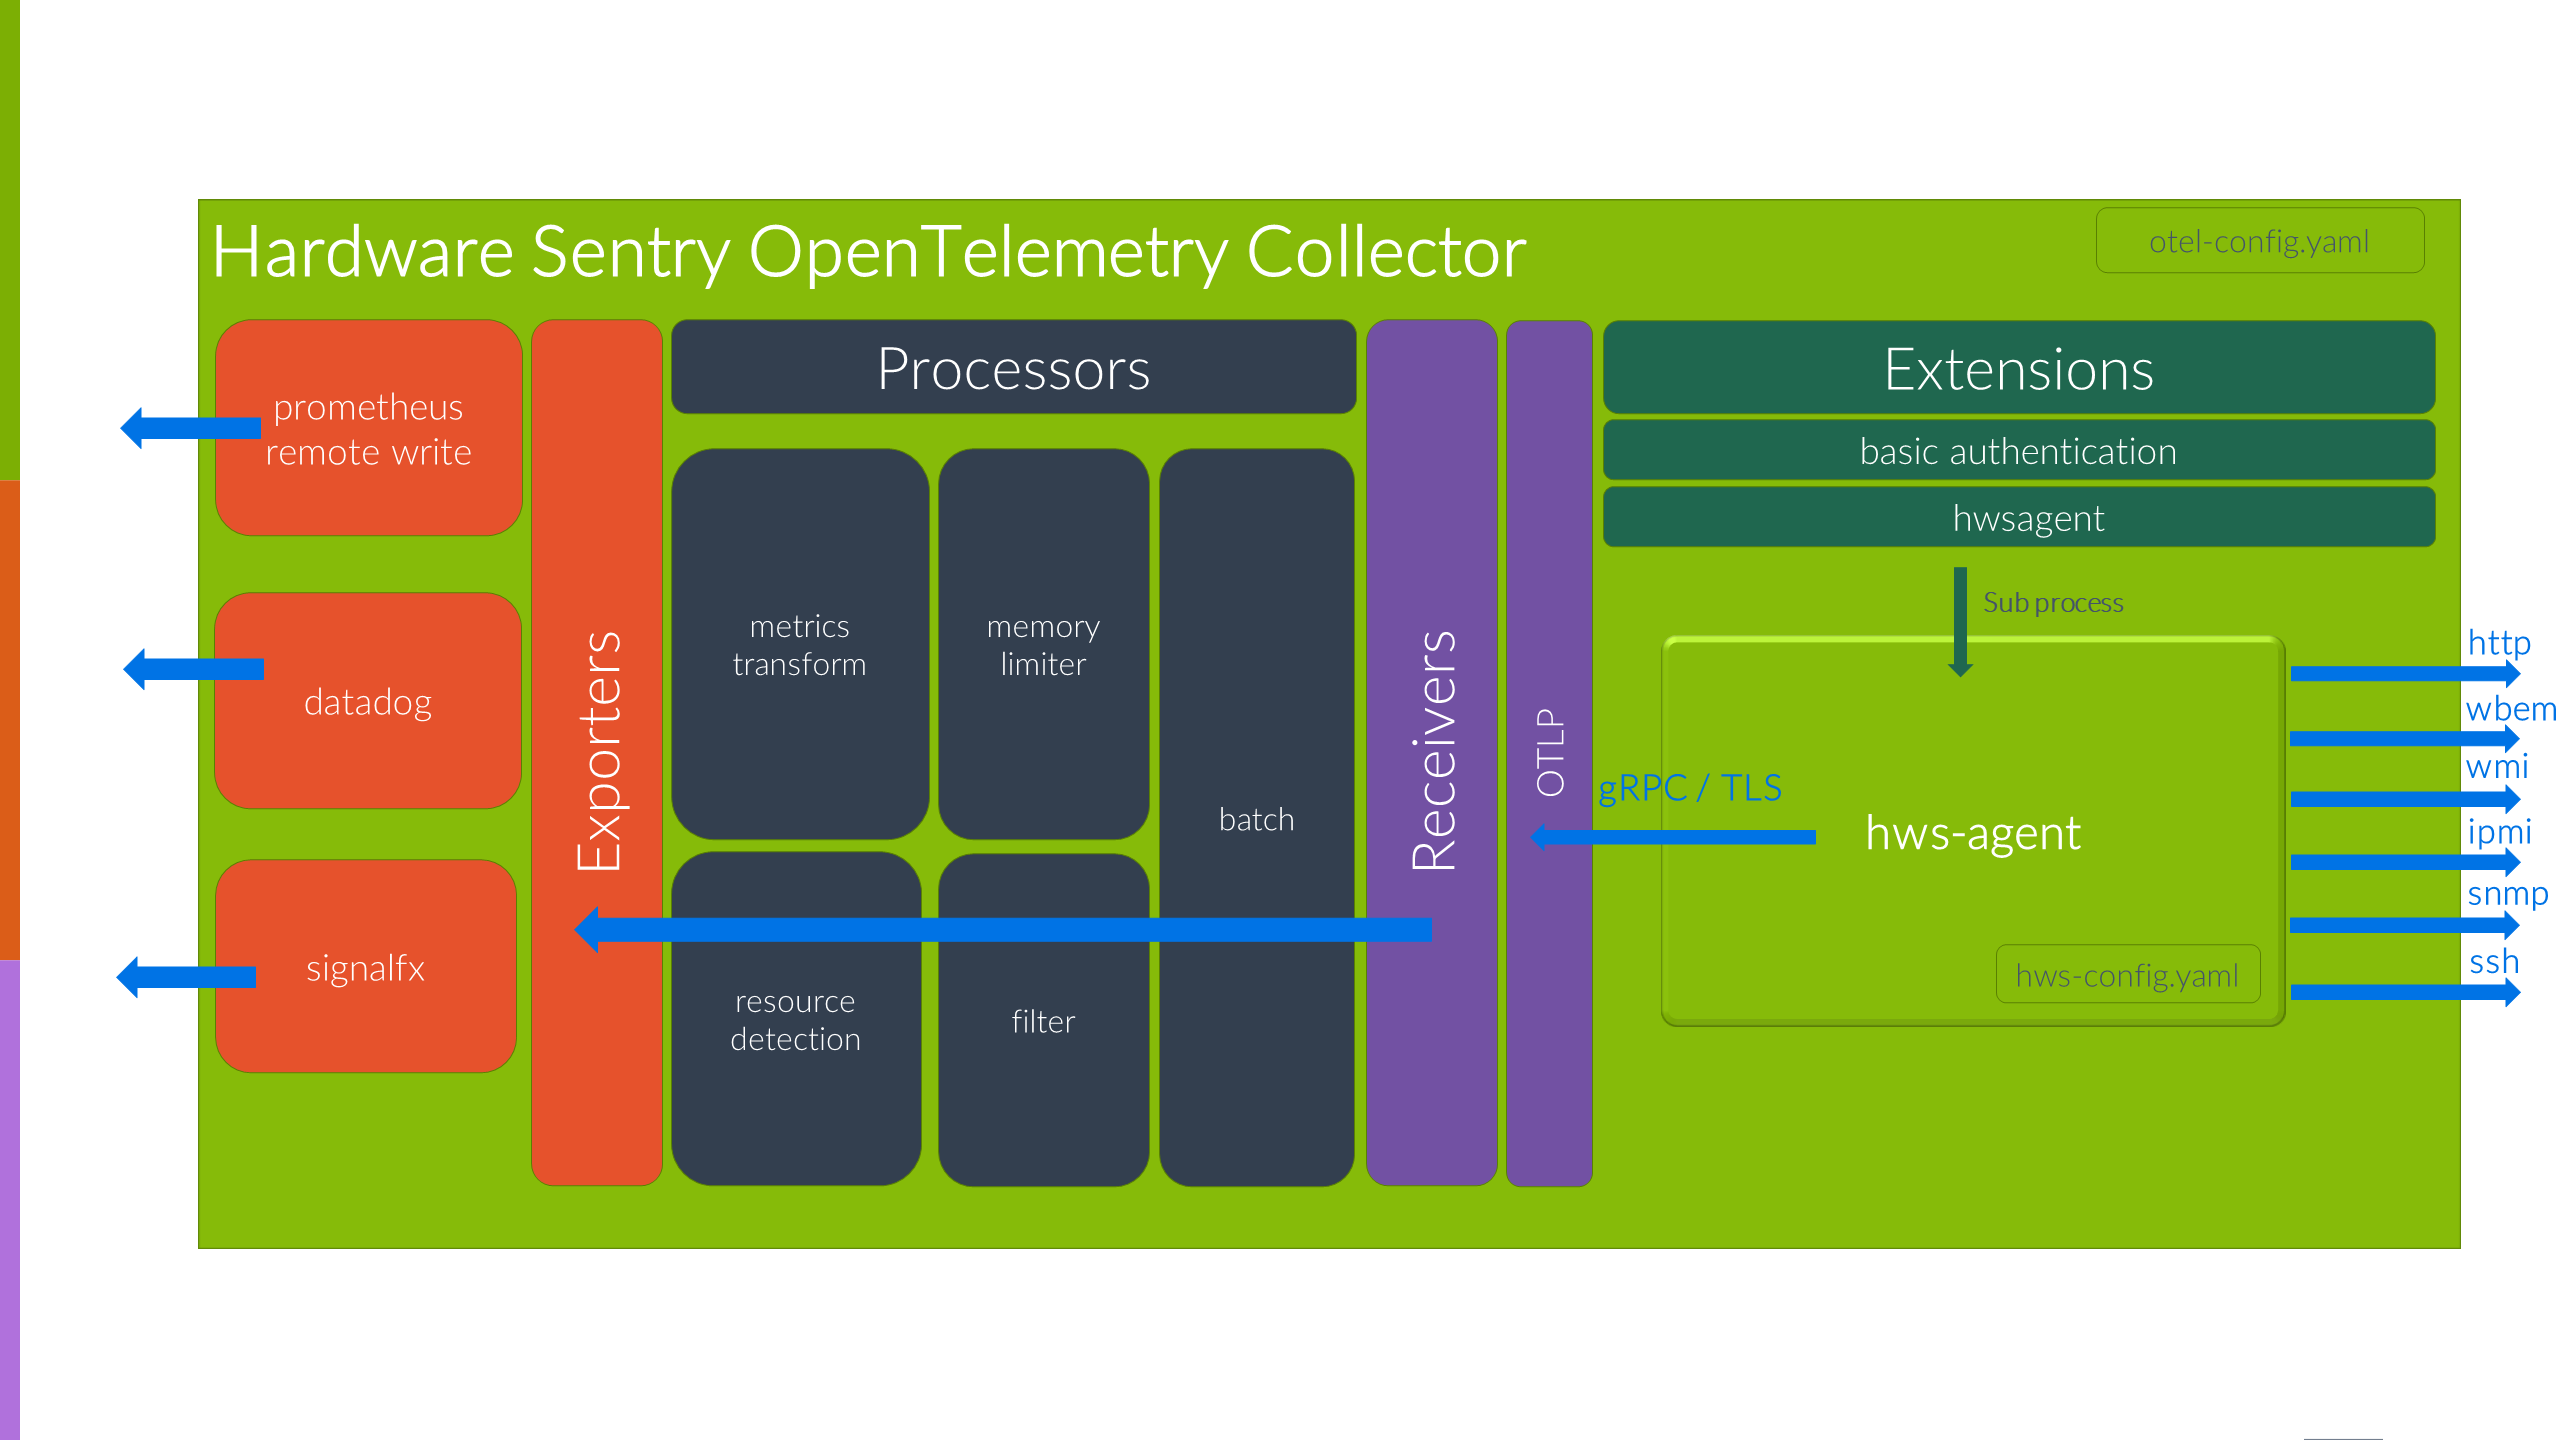
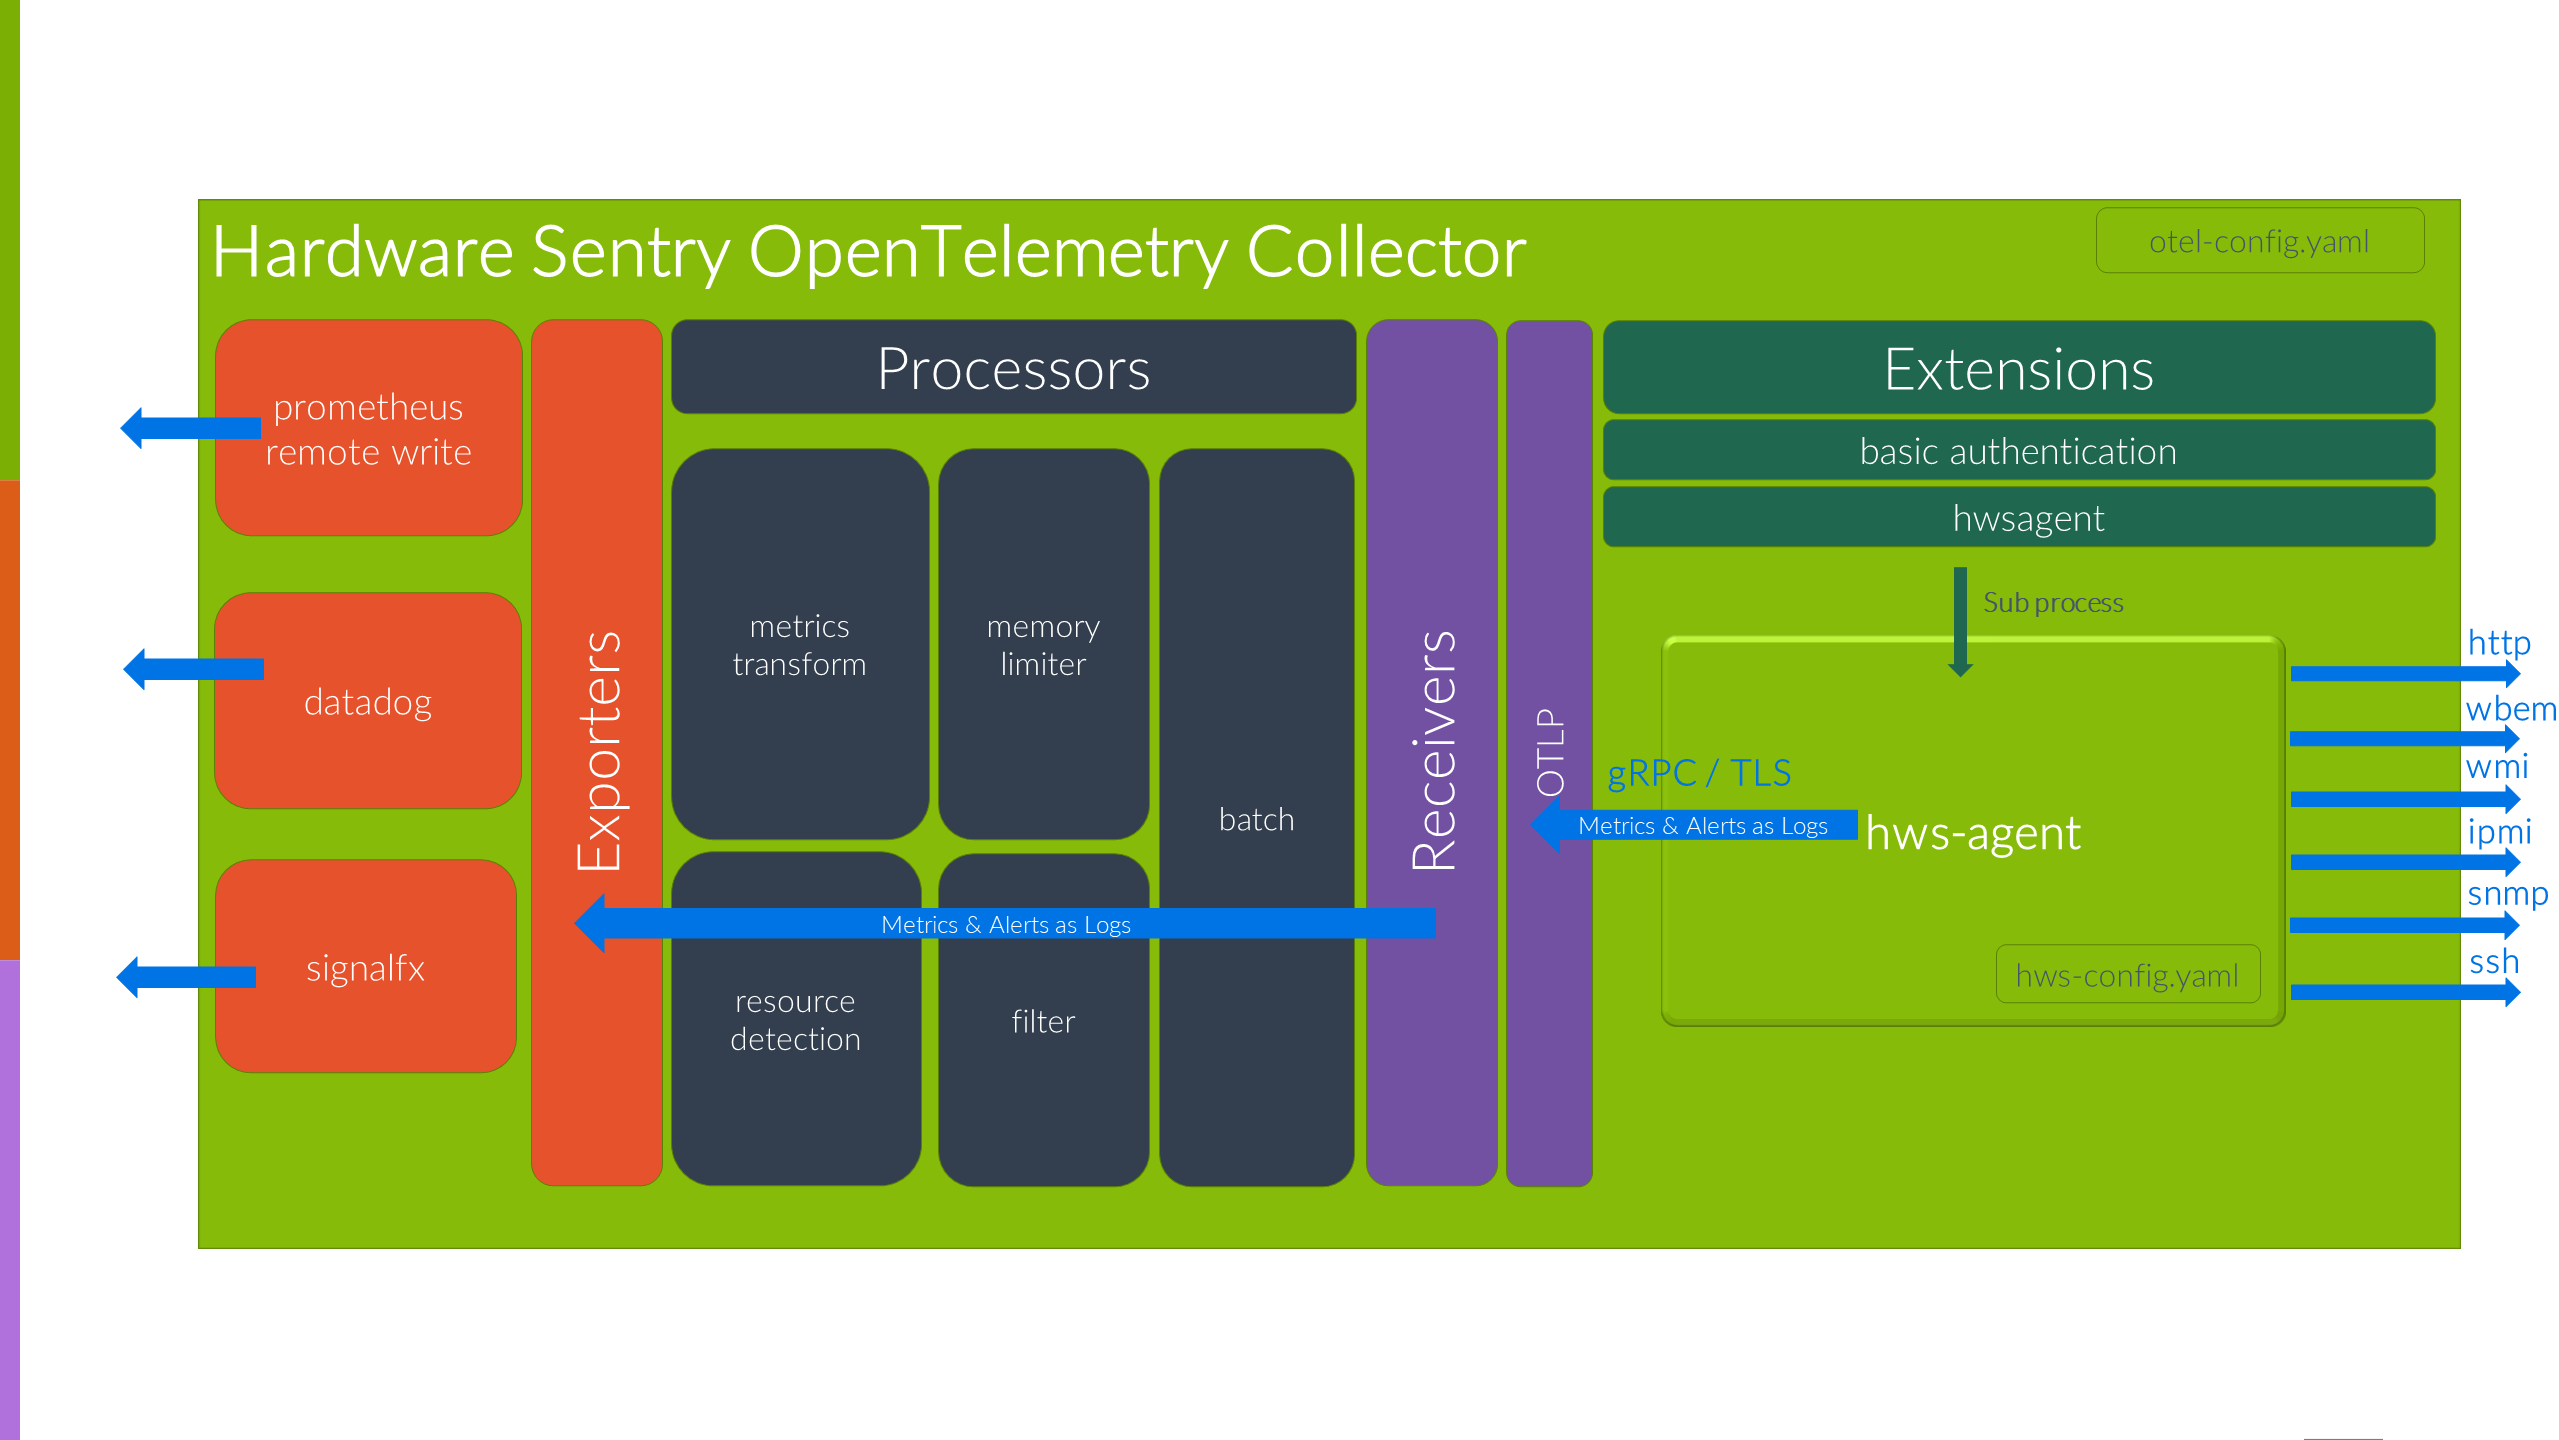
HWS-348
Trigger Alerts as OpenTelemetry Logs

* Using content instead of body term for alerts in the documentation
* Updated otel-internal-architecture PNG.

Changed region(s): [[0.2161, 0.625, 0.5557, 0.6562], [0.5866, 0.5312, 0.7409, 0.5938]]

diff --git a/hws-otel-collector/src/site/markdown/alerts.md b/hws-otel-collector/src/site/markdown/alerts.md
@@ -203,11 +203,11 @@ The following table lists **${project.name}**'s alert rules:
 | Voltage         | hw.voltage.status                           | WARN     | hw.voltage.status == 1                             |
 | Voltage         | hw.voltage.status                           | ALARM    | hw.voltage.status == 2                             |
 
-## Customizing Alert Body 
+## Customizing Alert Content 
 
-**${project.name}** allows you to customize the body of alerts with macros, you need to configure these macros in the `hardwareProblemTemplate` parameter in the `config/hws-config.yaml` file. The procedure is detailed in the [Hardware Problem Template](configuration/configure-agent.md#Hardware_Problem_Template) section.
+**${project.name}** allows you to customize the content of alerts with macros, you need to configure these macros in the `hardwareProblemTemplate` parameter in the `config/hws-config.yaml` file. The procedure is detailed in the [Hardware Problem Template](configuration/configure-agent.md#Hardware_Problem_Template) section.
 
-The default alert body template is the following:
+The default alert content template is the following:
 
 ```
 Hardware problem on ${FQDN} with ${MONITOR_NAME}.${NEWLINE}${NEWLINE}${ALERT_DETAILS}${NEWLINE}${NEWLINE}${FULLREPORT}
